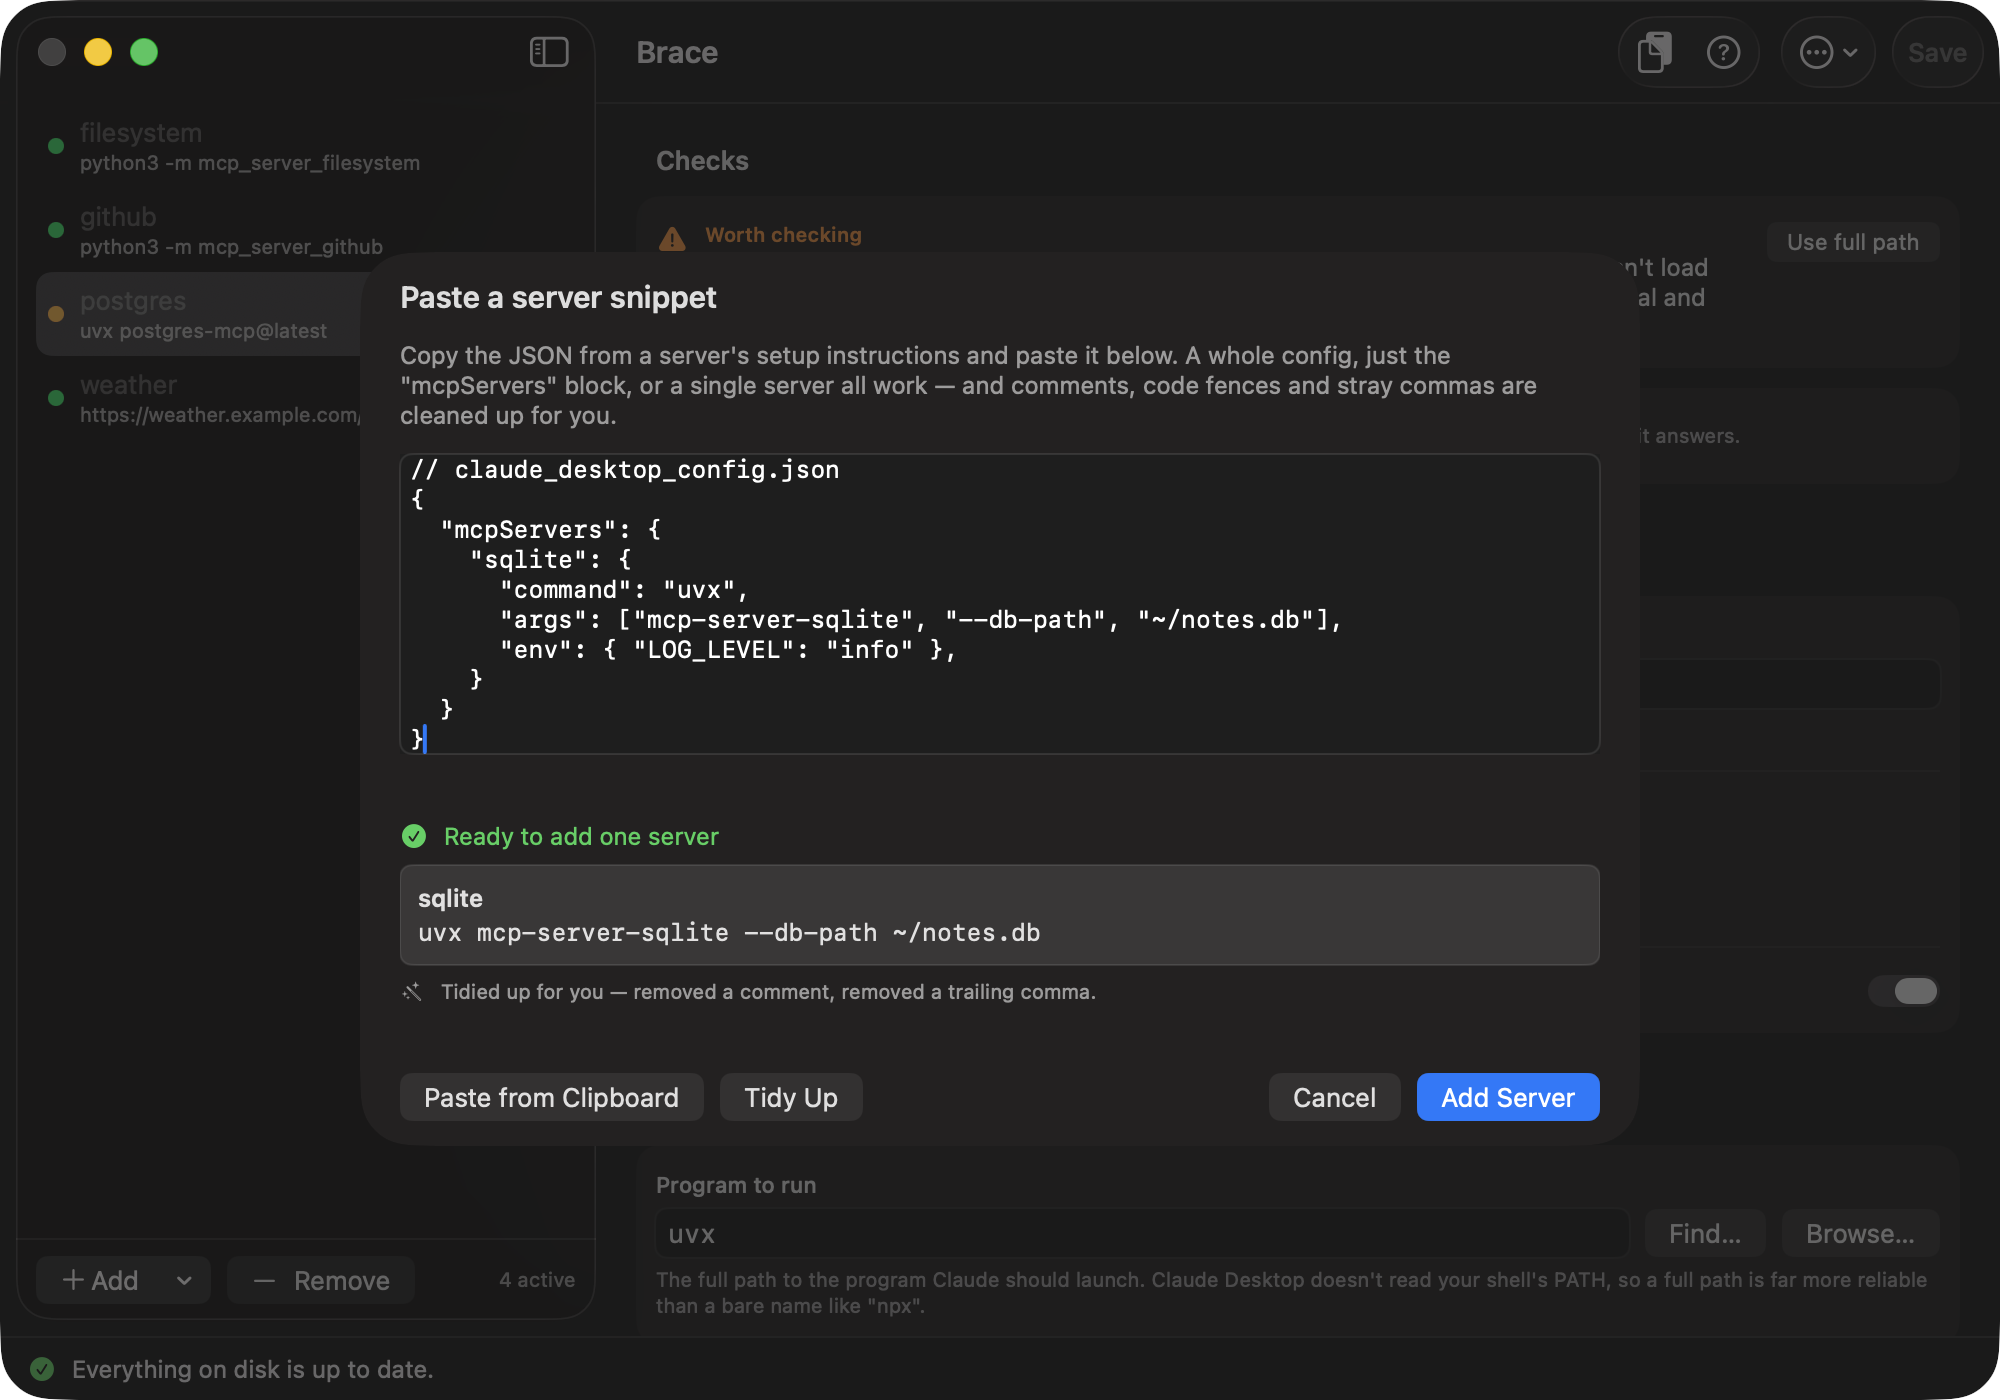
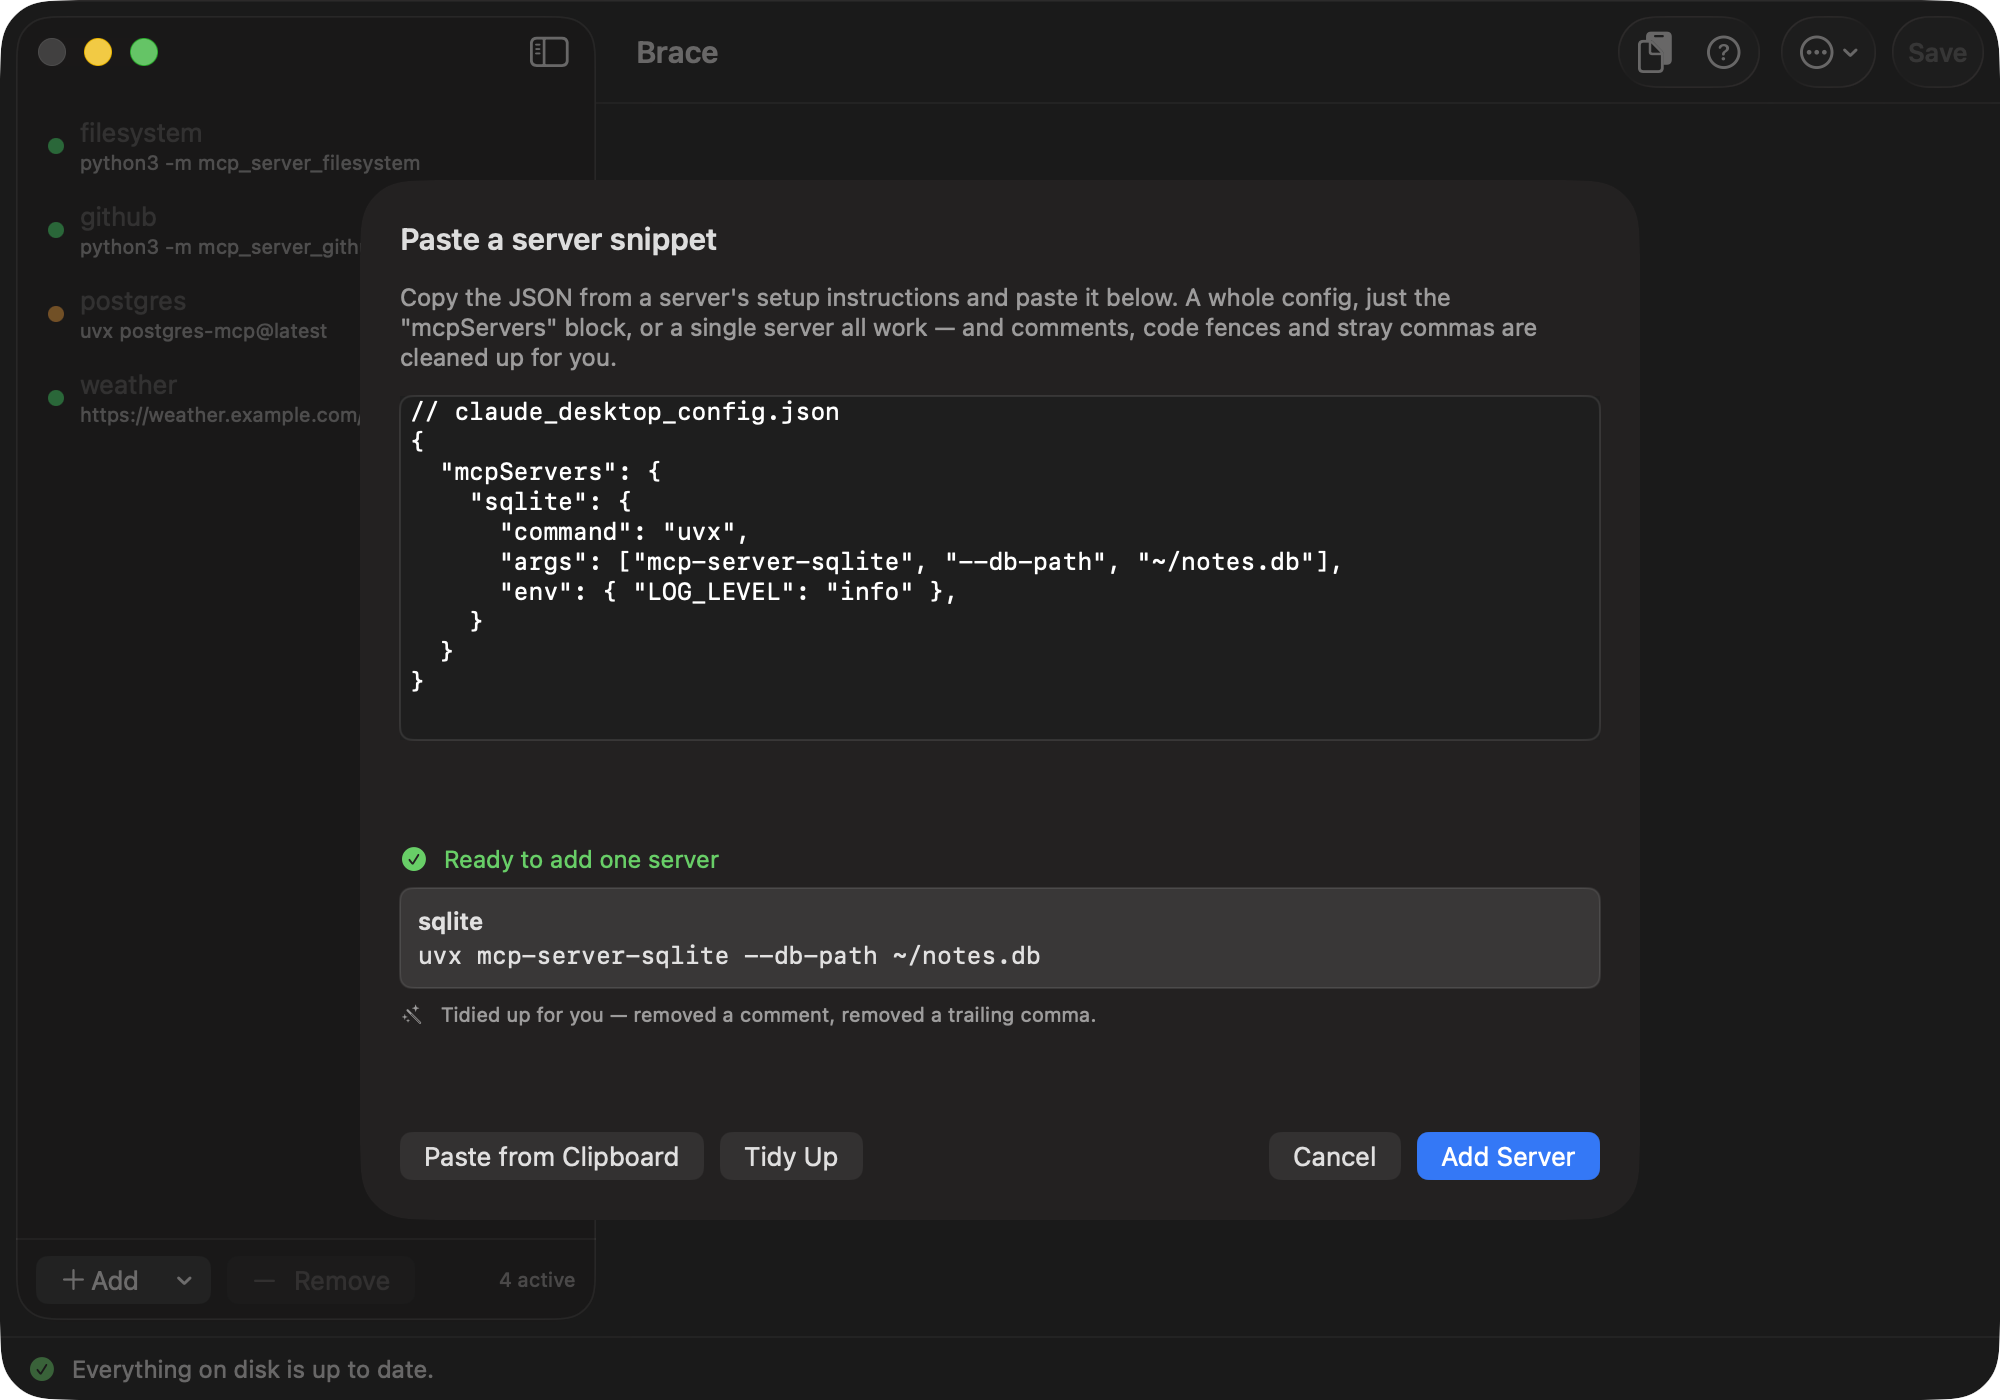
Fix the Paste JSON window's layout in every state
It was wrong empty and wrong full. A ScrollView always accepts the height it is
offered, so a plain frame left a void under one short row and overflowed under
six, sliding the last card beneath the buttons. ViewThatFits uses the plain stack
while the content fits and only falls back to scrolling past the cap, and the
text box now absorbs whatever room is left rather than sitting at its minimum.

Safety warnings also move above the server list. Paste four servers and the
dangerous one may be last, where its warning sat below the fold — the most
important thing in the window was the part you could not see.

diff --git a/Sources/ImportSheet.swift b/Sources/ImportSheet.swift
@@ -27,16 +27,26 @@ struct ImportSheet: View {
                 .foregroundStyle(.secondary)
                 .fixedSize(horizontal: false, vertical: true)
 
+            // The editor takes whatever room the status area isn't using, so an
+            // empty dialog is all editor rather than editor plus a void.
             TextEditor(text: $text)
                 .font(.system(.callout, design: .monospaced))
-                .frame(minHeight: 150)
+                .frame(minHeight: 140, maxHeight: .infinity)
                 .overlay(RoundedRectangle(cornerRadius: 6).stroke(.separator))
 
-            ScrollView {
-                status.frame(maxWidth: .infinity, alignment: .leading)
+            if hasStatus {
+                // A ScrollView always claims the height it is offered, so a bare
+                // frame leaves a gap under one short row and overflows under six.
+                // ViewThatFits uses the plain stack while it fits and only falls
+                // back to scrolling when the content genuinely exceeds the cap.
+                ViewThatFits(in: .vertical) {
+                    status.frame(maxWidth: .infinity, alignment: .leading)
+                    ScrollView {
+                        status.frame(maxWidth: .infinity, alignment: .leading)
+                    }
+                }
+                .frame(maxHeight: 240)
             }
-            .fixedSize(horizontal: false, vertical: true)
-            .frame(maxHeight: 260)
 
             HStack {
                 Button("Paste from Clipboard") {
@@ -59,7 +69,7 @@ struct ImportSheet: View {
             }
         }
         .padding(20)
-        .frame(width: 640)
+        .frame(width: 640, height: 520)
         .onAppear(perform: prefillFromClipboard)
         .onChange(of: text) { _, _ in revalidate() }
     }
@@ -80,6 +90,31 @@ struct ImportSheet: View {
                 .foregroundStyle(.green)
                 .font(.callout)
 
+                // Safety warnings go above the list, not inside it. With several
+                // servers the risky one can be last, and a warning you have to
+                // scroll to find is a warning that goes unread.
+                if !flaggedServers.isEmpty {
+                    VStack(alignment: .leading, spacing: 5) {
+                        ForEach(flaggedServers, id: \.name) { server in
+                            ForEach(Validator.safetyIssues(for: server)) { issue in
+                                Label {
+                                    Text("\(server.name): ").fontWeight(.semibold)
+                                        + Text(issue.message)
+                                } icon: {
+                                    Image(systemName: "exclamationmark.shield.fill")
+                                }
+                                .font(.callout)
+                                .foregroundStyle(.orange)
+                                .fixedSize(horizontal: false, vertical: true)
+                            }
+                        }
+                    }
+                    .padding(9)
+                    .frame(maxWidth: .infinity, alignment: .leading)
+                    .background(RoundedRectangle(cornerRadius: 6).fill(.orange.opacity(0.12)))
+                    .overlay(RoundedRectangle(cornerRadius: 6).stroke(.orange.opacity(0.4)))
+                }
+
                 // A config file names the program Claude will run, so show exactly
                 // what that is before it gets added rather than after.
                 ForEach(servers) { server in
@@ -90,13 +125,6 @@ struct ImportSheet: View {
                             .font(.system(.callout, design: .monospaced))
                             .textSelection(.enabled)
                             .fixedSize(horizontal: false, vertical: true)
-                        ForEach(Validator.safetyIssues(for: server)) { issue in
-                            Label(issue.message, systemImage: "exclamationmark.shield.fill")
-                                .font(.caption)
-                                .foregroundStyle(.orange)
-                                .fixedSize(horizontal: false, vertical: true)
-                                .padding(.top, 1)
-                        }
                     }
                     .frame(maxWidth: .infinity, alignment: .leading)
                     .padding(9)
@@ -111,10 +139,18 @@ struct ImportSheet: View {
                 }
             }
             .fixedSize(horizontal: false, vertical: true)
-        } else {
-            // Keeps the dialog from resizing as you type.
-            Text(" ").font(.callout)
         }
+    }
+
+    /// Whether there is anything to show under the editor. Nothing to say means no
+    /// space reserved.
+    private var hasStatus: Bool {
+        errorMessage != nil || !servers.isEmpty
+    }
+
+    /// Servers whose command shape means "run arbitrary code".
+    private var flaggedServers: [MCPServer] {
+        servers.filter { !Validator.safetyIssues(for: $0).isEmpty }
     }
 
     /// What Claude would actually launch, for the preview.

diff --git a/CHANGELOG.md b/CHANGELOG.md
@@ -1,5 +1,17 @@
 # Release Notes
 
+## 2.1.1 — 2026-09-03
+
+Fixes the Paste JSON window, which was laid out badly in every state.
+
+- Empty, it left a large gap between the box and the buttons. With several
+  servers, the list overflowed and slid underneath them. The status area now
+  sizes itself to its content and only scrolls once it genuinely overruns, and
+  the text box takes whatever room is left over.
+- Safety warnings moved above the server list. With four servers pasted at once
+  the risky one can be last, and a warning you have to scroll to find is a
+  warning nobody reads.
+
 ## 2.1.0 — 2026-09-03
 
 Two ways your work could have been lost, both now closed.
